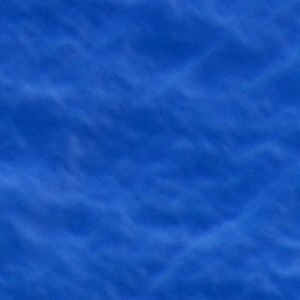
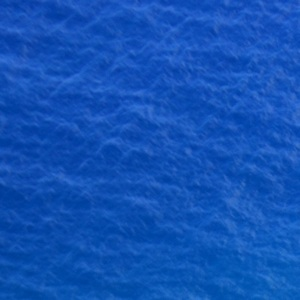
Compressão imagem para 300x300

diff --git a/BatalhaNavalPOO/src/game/Main.java b/BatalhaNavalPOO/src/game/Main.java
@@ -38,12 +38,12 @@ public class Main {
                 }
             }
         });
-        
+        /*
         if(boardP1.vence()){
             System.out.println("Vc ganhou");
         }
         if(boardP2.vence()){
             System.out.println("Vc perdeu");
-        }
+        }//*/
     }
 }
